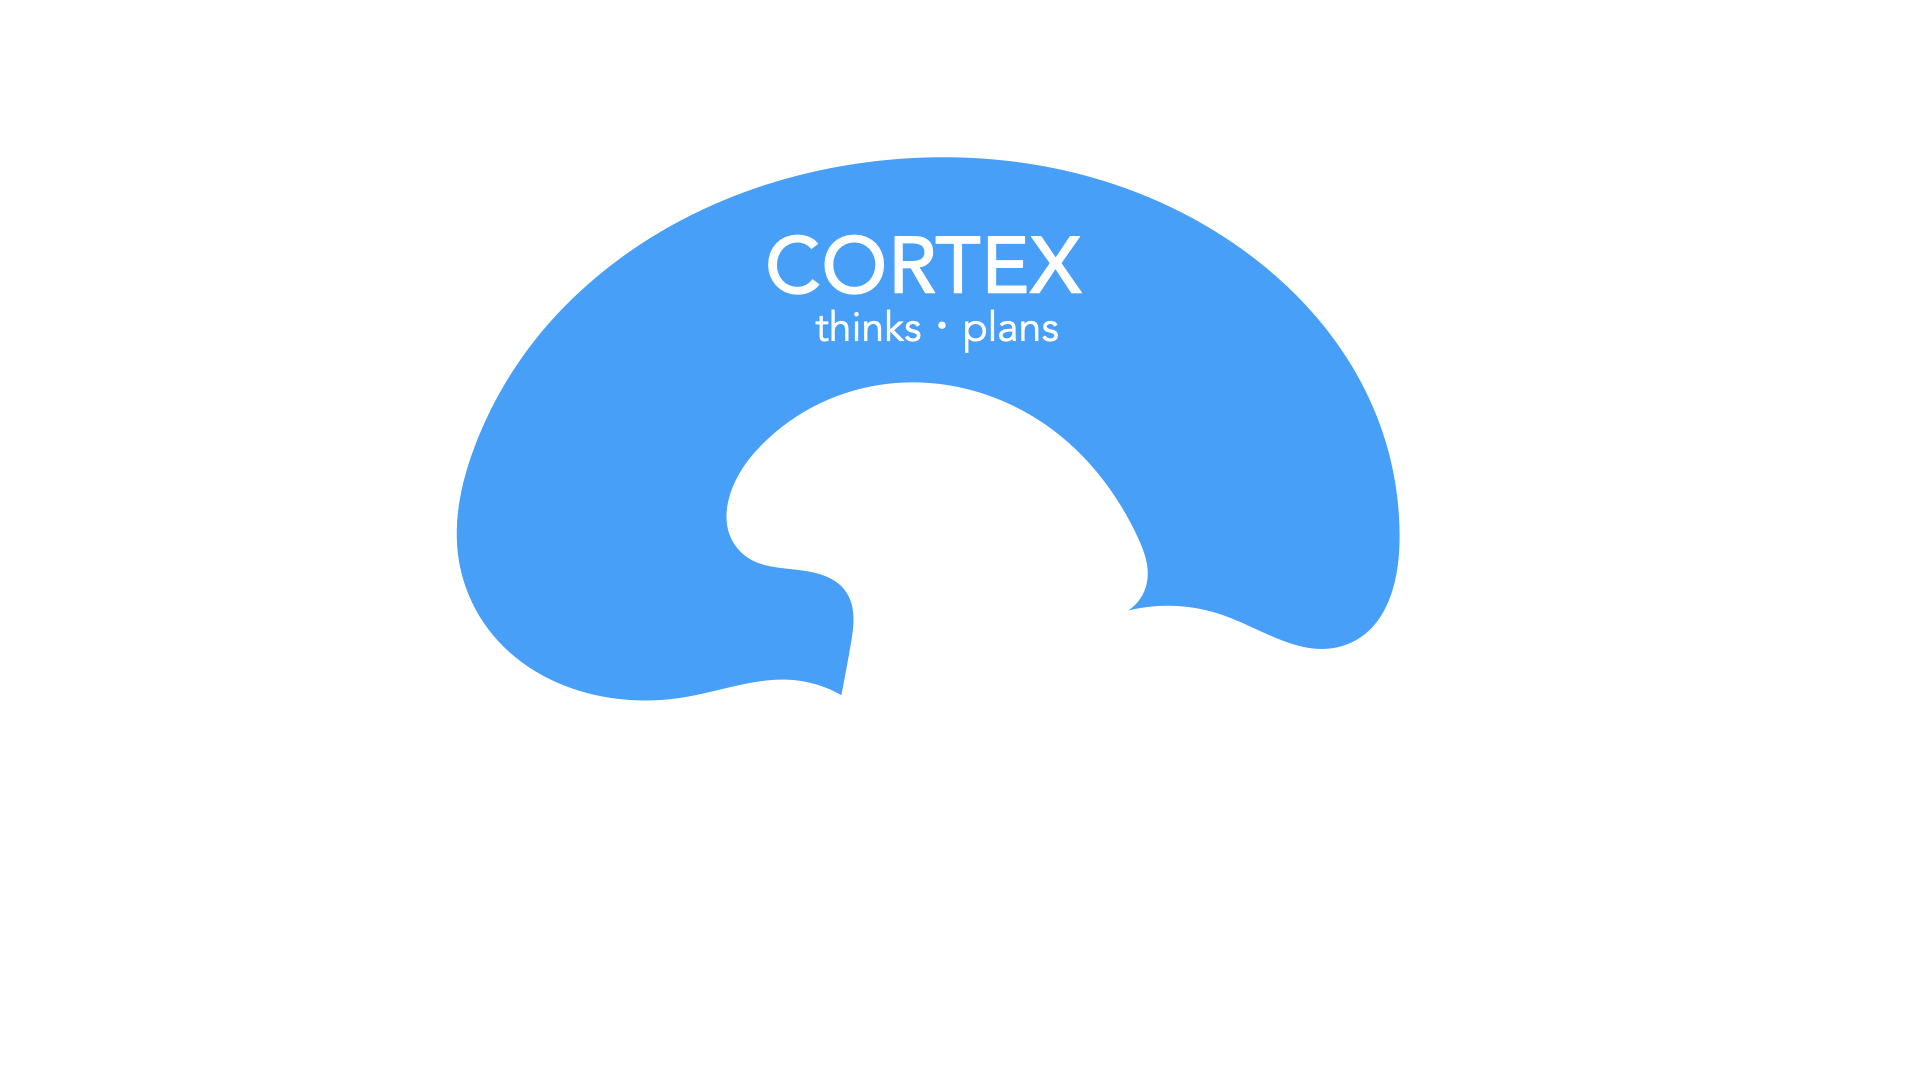
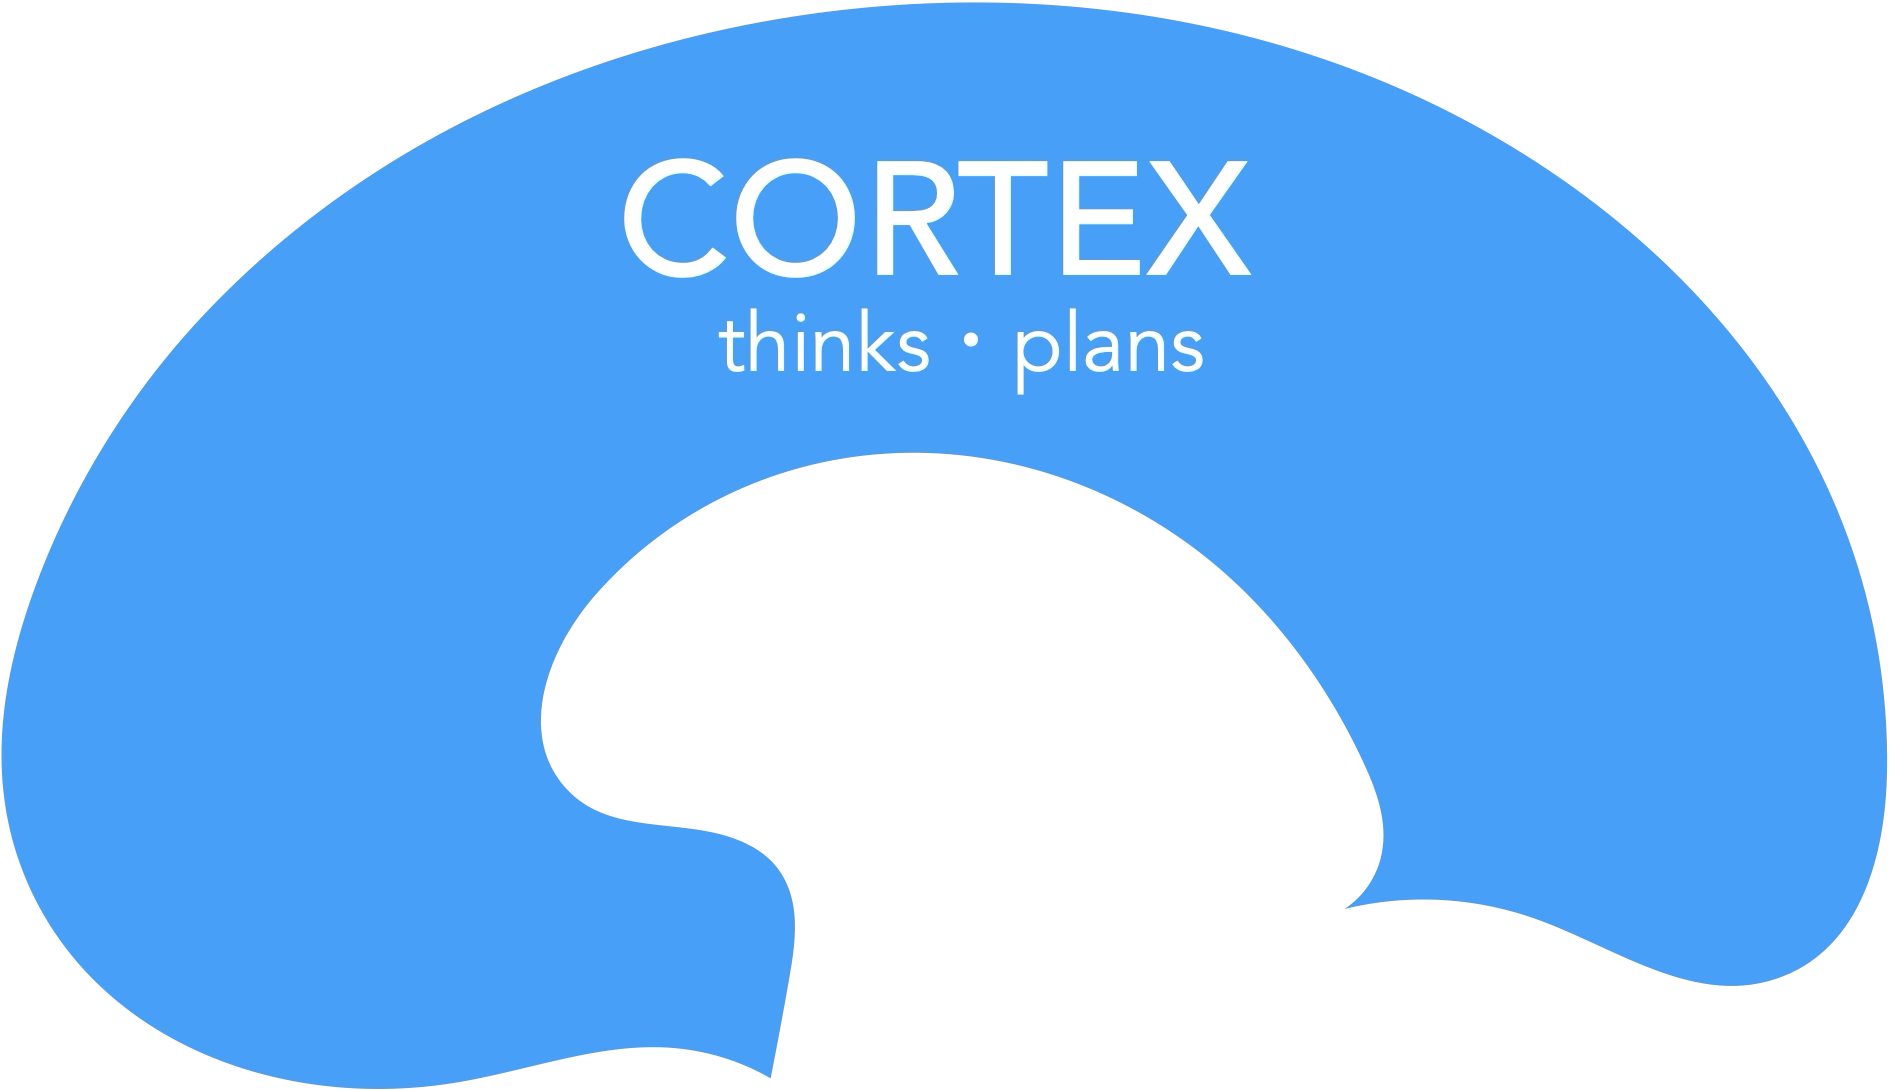
Update brain images to higher-res, individually-positioned crops
The updated PNGs from Brain_Model/ are now cropped to each region's
bounding box (no shared canvas), so each one needs its own SVG x/y/
width/height to land in the correct anatomical position. The visible
content lands in exactly the same SVG coordinates as the previous
unified-canvas version, so arrows + badges still align.

Per-region SVG placements in the 460×340 viewBox:
- cortex:    x=20  y=6   w=220 h=127
- limbic:    x=84  y=59  w=97  h=77
- brainstem: x=123 y=111 w=56  h=75

diff --git a/index.html b/index.html
@@ -8,7 +8,7 @@
   <link rel="preconnect" href="https://fonts.googleapis.com" />
   <link rel="preconnect" href="https://fonts.gstatic.com" crossorigin />
   <link href="https://fonts.googleapis.com/css2?family=Cormorant+Garamond:ital,wght@0,500;0,600;1,500;1,600&family=Nunito:wght@400;600;700;800&display=swap" rel="stylesheet" />
-  <link rel="stylesheet" href="styles.css?v=32" />
+  <link rel="stylesheet" href="styles.css?v=33" />
   <link rel="stylesheet" href="part3-polish.css?v=3" />
   <link rel="stylesheet" href="part4-polish.css?v=2" />
 </head>
@@ -289,24 +289,25 @@
         </defs>
 
         <!-- ===== BRAIN (left half) =====
-             Three PNG layers (cortex / limbic / brain stem) drawn at the
-             same x/y/width/height so they stack pixel-perfectly into one
-             complete brain. Source images live in assets/. Each image
-             carries its own white label baked in. -->
+             Three PNG layers (cortex / limbic / brain stem). Each image
+             is now cropped to its region's bounding box, so we position
+             each one individually in SVG coordinates so they assemble
+             into one anatomical brain. Each image carries its own white
+             label baked in. -->
         <g class="wiring-brain">
           <g class="brain-layer" data-region="cortex">
             <image href="assets/brain-cortex.png"
-                   x="-86" y="-31" width="447" height="252"
+                   x="20" y="6" width="220" height="127"
                    preserveAspectRatio="xMidYMid meet" />
           </g>
           <g class="brain-layer" data-region="limbic">
             <image href="assets/brain-limbic.png"
-                   x="-86" y="-31" width="447" height="252"
+                   x="84" y="59" width="97" height="77"
                    preserveAspectRatio="xMidYMid meet" />
           </g>
           <g class="brain-layer" data-region="brainstem">
             <image href="assets/brain-brainstem.png"
-                   x="-86" y="-31" width="447" height="252"
+                   x="123" y="111" width="56" height="75"
                    preserveAspectRatio="xMidYMid meet" />
           </g>
         </g>
@@ -497,17 +498,17 @@
         <g class="wiring-brain">
           <g class="brain-layer" data-region="cortex">
             <image href="assets/brain-cortex.png"
-                   x="-86" y="-31" width="447" height="252"
+                   x="20" y="6" width="220" height="127"
                    preserveAspectRatio="xMidYMid meet" />
           </g>
           <g class="brain-layer" data-region="limbic">
             <image href="assets/brain-limbic.png"
-                   x="-86" y="-31" width="447" height="252"
+                   x="84" y="59" width="97" height="77"
                    preserveAspectRatio="xMidYMid meet" />
           </g>
           <g class="brain-layer" data-region="brainstem">
             <image href="assets/brain-brainstem.png"
-                   x="-86" y="-31" width="447" height="252"
+                   x="123" y="111" width="56" height="75"
                    preserveAspectRatio="xMidYMid meet" />
           </g>
         </g>